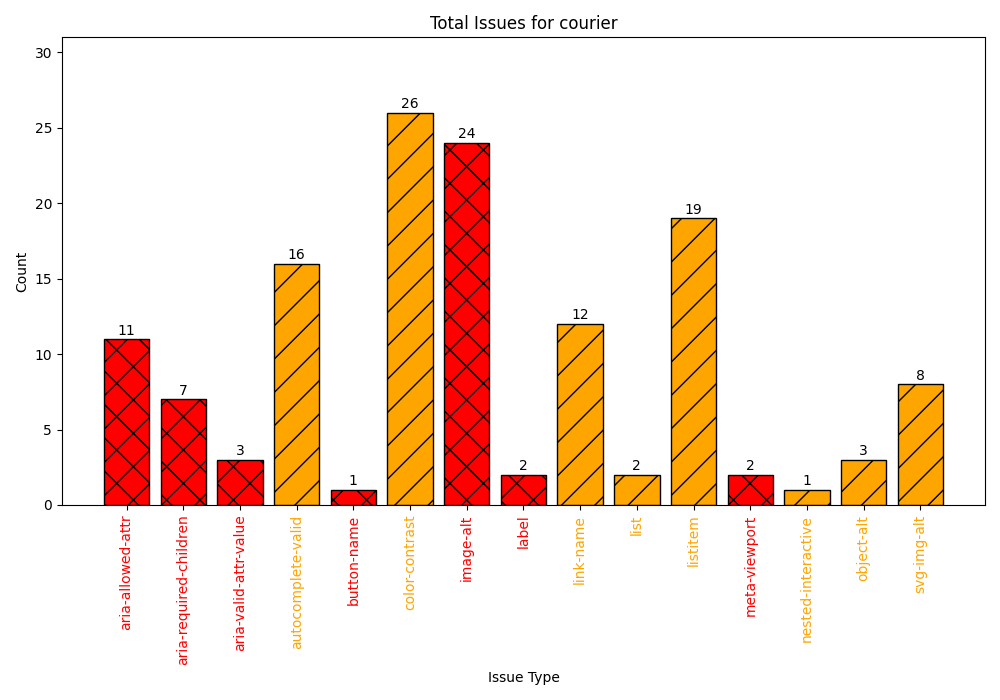
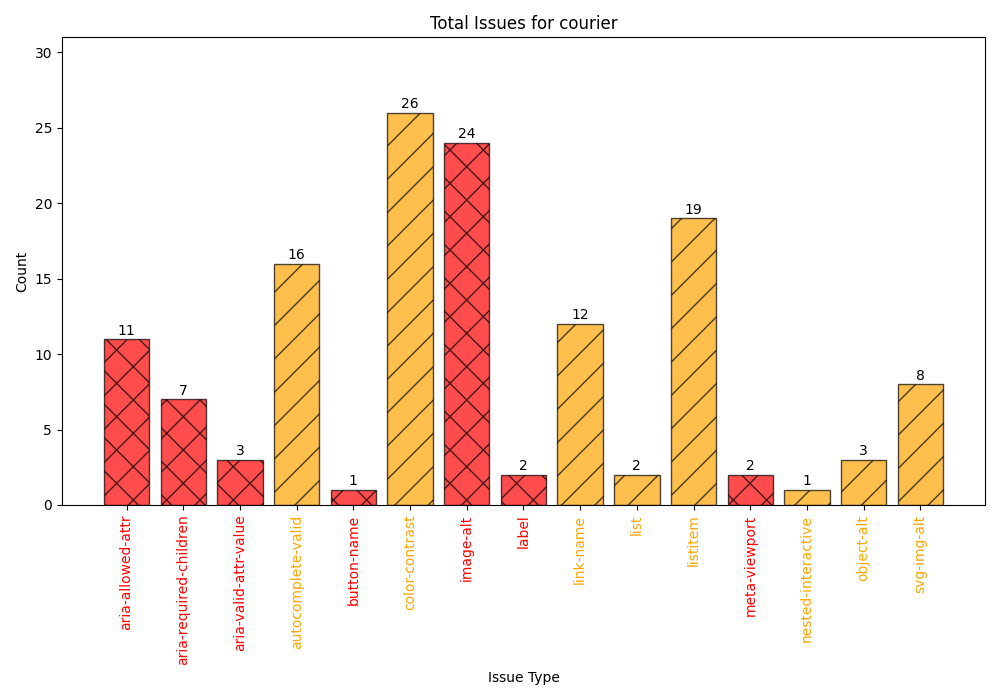
.

Changed region(s): [[0.093, 0.15, 0.961, 0.72]]

diff --git a/Praca magisterska/results/axe/visualize_categories.py b/Praca magisterska/results/axe/visualize_categories.py
@@ -3,19 +3,37 @@ import matplotlib.pyplot as plt
 import math
 import numpy as np  
 
+def Average(lst): 
+    return sum(lst) / len(lst) 
+
 categories = ['bigsize', 'courier', 'ecommerce', 'education', 'entertainment', 'gov', 'healthcare', 'news', 'nonprofit', 'mediumsize', 'smallsize', 'socialmedia']
-# categories = ['courier']
+# categories = ['courier', 'bigsize', 'ecommerce', 'education']
+
+all_issues = set()
+all_issues_counts = {}
+all_issues_average = {}
+all_issues_detail_counts = {}
+critical_counts = {}
+serious_counts = {}
+
 
 for category in categories:
     json_file_names = set()
     all_issues = set()
     file_issues = {}
+    
+    all_issues_counts.setdefault(category, {'critical': 0, 'serious': 0})
+    all_issues_average.setdefault(category, {'critical': 0, 'serious': 0})
 
     with open(f"{category}.txt", "r") as file:
         data = file.read()
 
     sections = re.split(r"[\w]+\\", data)[1:]
 
+    c = []
+    s = []
+    cc = 0;
+    ss = 0;
     for section in sections:
         lines = section.split("\n")
 
@@ -33,12 +51,19 @@ for category in categories:
             for issue_data in critical_issues_data:
                 if ";" in issue_data:
                     issue, count, description = issue_data.strip().split(":")
+                    all_issues.add(issue.strip())
+                    all_issues_detail_counts.setdefault(issue, 0)
                     count = int(count.strip())
                     all_issues.add(issue.strip())
                     file_issues.setdefault(json_file_name, {}).setdefault(issue.strip(), {}).setdefault('count', 0)
                     file_issues.setdefault(json_file_name, {}).setdefault(issue.strip(), {}).setdefault('color', 'red')
                     file_issues.setdefault(json_file_name, {}).setdefault(issue.strip(), {}).setdefault('hatch', 'X')
                     file_issues[json_file_name][issue.strip()]["count"] += count
+                    all_issues_detail_counts[issue] += count
+                    all_issues_counts[category]['critical'] += count
+                    cc += count
+                    critical_counts.setdefault(issue, 0)
+                    critical_counts[issue] += count
 
         if "Serious Issues:" in lines:
             serious_index = lines.index("Serious Issues:") + 1
@@ -47,12 +72,25 @@ for category in categories:
             for issue_data in serious_issues_data:
                 if ";" in issue_data:
                     issue, count, description = issue_data.strip().split(":")
+                    all_issues.add(issue.strip())
+                    all_issues_detail_counts.setdefault(issue, 0)
                     count = int(count.strip())
                     all_issues.add(issue.strip())
                     file_issues.setdefault(json_file_name, {}).setdefault(issue.strip(), {}).setdefault('count', 0)
                     file_issues.setdefault(json_file_name, {}).setdefault(issue.strip(), {}).setdefault('color', 'orange')
                     file_issues.setdefault(json_file_name, {}).setdefault(issue.strip(), {}).setdefault('hatch', '/')
                     file_issues[json_file_name][issue.strip()]["count"] += count
+                    all_issues_detail_counts[issue] += count
+                    all_issues_counts[category]['serious'] += count
+                    ss += count
+                    serious_counts.setdefault(issue, 0)
+                    serious_counts[issue] += count
+    
+        c.append(cc)
+        s.append(ss)
+    
+    all_issues_average[category]["critical"] = math.ceil(Average(c))
+    all_issues_average[category]["serious"] = math.ceil(Average(s))
 
     all_issues = sorted(list(all_issues))
     max_total_count = max([sum(file_issues.get(json_file, {}).get(issue, {}).get("count", 0) for json_file in file_issues.keys()) for issue in all_issues], default=0)
@@ -62,25 +100,15 @@ for category in categories:
     total_issue_counts = [sum(file_issues.get(json_file, {}).get(issue, {}).get("count", 0) for json_file in file_issues.keys()) for issue in all_issues]
 
     colors_arrays = [[file_issues.get(json_file, {}).get(issue, {}).get("color", "") for json_file in file_issues.keys()] for issue in all_issues]
-    colors = [];
-    for subarr in colors_arrays:
-        if any(item == 'red' for item in subarr):
-            colors.append('red');
-        else:
-            colors.append('orange');
+    colors = ['red' if 'red' in subarr else 'orange' for subarr in colors_arrays]
     
     hatches_arrays = [[file_issues.get(json_file, {}).get(issue, {}).get("hatch", "") for json_file in file_issues.keys()] for issue in all_issues]
-    hatches = [];
-    for subarr in hatches_arrays:
-        if any(item == 'X' for item in subarr):
-            hatches.append('X');
-        else:
-            hatches.append('/');
+    hatches = ['X' if 'X' in subarr else '/' for subarr in hatches_arrays]
 
     if not all_issues:
         total_issue_counts = [0] * len(total_issue_counts)
 
-    plt.bar(all_issues, total_issue_counts, edgecolor='black', color=colors, hatch=hatches)
+    plt.bar(all_issues, total_issue_counts, edgecolor='black', color=colors, hatch=hatches, alpha=0.7)
     
     for ticklabel, tickcolor in zip(plt.gca().get_xticklabels(), colors):
         ticklabel.set_color(tickcolor)
@@ -96,33 +124,122 @@ for category in categories:
     plt.savefig(f'{category}_total_issues.png')  # Save total issues plot to a file in the current folder
     plt.close()
 
-    idx = -0.4
-    plt.figure(figsize=(10, 7))
-    X_axis = np.arange(len(all_issues))
-    max_count = 0
 
-    for json_file_name in json_file_names:
-        individual_issue_counts = [file_issues[json_file_name].get(issue, {}).get("count", 0) for issue in all_issues]
+# # Plot individual issues for each file
+#     plt.figure(figsize=(10, 7))
+#     X_axis = np.arange(len(all_issues))
+#     max_count = 0
+#     bar_width = 0.2
+#     idx = np.arange(len(json_file_names)) * bar_width
 
-        maxtemp = max(individual_issue_counts)
-        if maxtemp > max_count:
-            max_count = maxtemp
+#     for idx_offset, json_file_name in zip(idx, json_file_names):
+#         individual_issue_counts = [file_issues[json_file_name].get(issue, {}).get("count", 0) for issue in all_issues]
+#         max_count = max(max(individual_issue_counts), max_count)
 
-        plt.bar(X_axis + idx, individual_issue_counts, 0.2, edgecolor='black', color=colors, hatch=hatches)
-        for i, count in enumerate(individual_issue_counts):
-            plt.text(i + idx, count + 0.1, str(count), ha='center', va='bottom')
-        idx += 0.2
+#         plt.bar(X_axis + idx_offset, individual_issue_counts, bar_width, edgecolor='black', alpha=0.7, color=colors, hatch=hatches)
+        
+#         for i, count in enumerate(individual_issue_counts):
+#             plt.text(i + idx_offset, count + 0.1, str(count), ha='center', va='bottom')
+
+#     plt.title(f"Issues count for {category}")
+#     plt.ylabel('Count')
+#     plt.xlabel('Issue Type')
+#     plt.xticks(X_axis + bar_width * (len(json_file_names) - 1) / 2, all_issues, rotation=90)
+#     plt.legend()
+
+#     for ticklabel, tickcolor in zip(plt.gca().get_xticklabels(), colors):
+#         ticklabel.set_color(tickcolor)
+
+#     plt.ylim(0, max_count + 5)  # Set the y-axis limits using the maximum total count
+#     plt.tight_layout()
+#     plt.savefig(f'{category}_issues.png')  # Save individual file issues plot to a file in the current folder
+#     plt.close()
+
+
+# Plot detailed issues count
+# severities = ['critical', 'serious']
+# colors = ['red', 'orange'] 
+hatches = ['x', '/']
+plt.figure(figsize=(15, 9))
+bar_width = 0.35  # Width of each bar
+idx = np.arange(len(all_issues_detail_counts))  # Array to hold the indices for each category
+max_count = max(max(critical_counts.values()), max(serious_counts.values()))  # Find maximum count for setting y-axis limit
+
+# Plotting critical issues
+critical_bars = plt.bar(idx, [critical_counts.get(label, 0) for label in all_issues_detail_counts.keys()], color='red', hatch=hatches[0], label='Critical')
+
+# Plotting serious issues
+serious_bars = plt.bar(idx, [serious_counts.get(label, 0) for label in all_issues_detail_counts.keys()], bottom=[critical_counts.get(label, 0) for label in all_issues_detail_counts.keys()], color='orange', hatch=hatches[1], label='Serious')
+
+plt.title("Issue type counts")
+plt.ylabel('Count')
+plt.xlabel('Issue')
+plt.xticks(idx, all_issues_detail_counts.keys(), rotation=90)
+plt.legend()  # Adding legend for severities
+plt.tight_layout()
+plt.ylim(0, max_count + 5)  # Set the y-axis limits using the maximum total count
+plt.tight_layout()
+plt.savefig(f'all_categories_detailed_issues.png')  # Save individual file issues plot to a file in the current folder
+plt.close()
+
+
+# # # Plot aggregated issues for all categories
+# severities = ['critical', 'serious']
+# colors = ['red', 'orange'] 
+# hatches = ['x', '/'] 
+# plt.figure(figsize=(10, 7))
+# bar_width = 0.35  # Width of each bar
+# idx = np.arange(len(categories))  # Array to hold the indices for each category
+# max_count = 0
+
+# for j, severity in enumerate(severities):
+#     individual_issue_counts = [all_issues_counts[category].get(severity, 0) for category in categories]
+#     max_count = max(max(individual_issue_counts), max_count)
+
+#     plt.bar(idx + j * bar_width, individual_issue_counts, bar_width, edgecolor='black', alpha=0.7, label=severity, color=colors[j], hatch=hatches[j])
     
-    plt.title(f"Issues for {category}")
-    plt.ylabel('Count')
-    plt.xlabel('Issue Type')
-    plt.xticks(X_axis-idx, all_issues) 
-    plt.xticks(rotation=60)
+#     for i, count in enumerate(individual_issue_counts):
+#         plt.text(idx[i] + j * bar_width, count + 0.1, str(count), ha='center', va='bottom')
 
-    for ticklabel, tickcolor in zip(plt.gca().get_xticklabels(), colors):
-        ticklabel.set_color(tickcolor)
+# plt.title("Sum of issue count for all categories")
+# plt.ylabel('Count')
+# plt.xlabel('Category')
+# plt.xticks(idx + bar_width / 2, categories)  # Adjusting xticks position
+# plt.xticks(rotation=60)
+# plt.legend()  # Adding legend for severities
+# plt.tight_layout()
+# plt.ylim(0, max_count + 5)  # Set the y-axis limits using the maximum total count
+# plt.tight_layout()
+# plt.savefig(f'all_categories_issues.png')  # Save individual file issues plot to a file in the current folder
+# plt.close()
 
-    plt.ylim(0, max_count + 5)  # Set the y-axis limits using the maximum total count
-    plt.tight_layout()
-    plt.savefig(f'{category}_issues.png')  # Save individual file issues plot to a file in the current folder
-    plt.close()
+
+# # Plot average issues (critical and serious) per file
+# severities = ['critical', 'serious']
+# colors = ['red', 'orange'] 
+# hatches = ['x', '/'] 
+# plt.figure(figsize=(10, 7))
+# bar_width = 0.35  # Width of each bar
+# idx = np.arange(len(categories))  # Array to hold the indices for each category
+# max_count = 0
+
+# for j, severity in enumerate(severities):
+#     individual_issue_counts = [all_issues_average[category].get(severity, 0) for category in categories]
+#     max_count = max(max(individual_issue_counts), max_count)
+
+#     plt.bar(idx + j * bar_width, individual_issue_counts, bar_width, edgecolor='black', alpha=0.7, label=severity, color=colors[j], hatch=hatches[j])
+    
+#     for i, count in enumerate(individual_issue_counts):
+#         plt.text(idx[i] + j * bar_width, count + 0.1, str(count), ha='center', va='bottom')
+
+# plt.title("Average issue count for all categories")
+# plt.ylabel('Count')
+# plt.xlabel('Category')
+# plt.xticks(idx + bar_width / 2, categories)  # Adjusting xticks position
+# plt.xticks(rotation=60)
+# plt.legend()  # Adding legend for severities
+# plt.tight_layout()
+# plt.ylim(0, max_count + 15)  # Set the y-axis limits using the maximum total count
+# plt.tight_layout()
+# plt.savefig(f'all_categories_issues_avg.png')  # Save individual file issues plot to a file in the current folder
+# plt.close()
